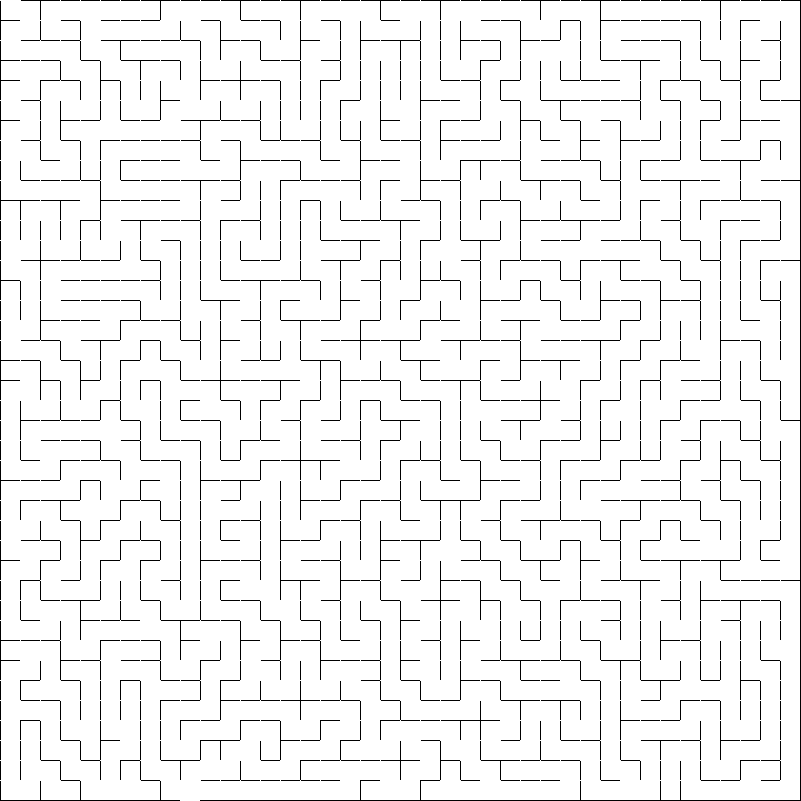
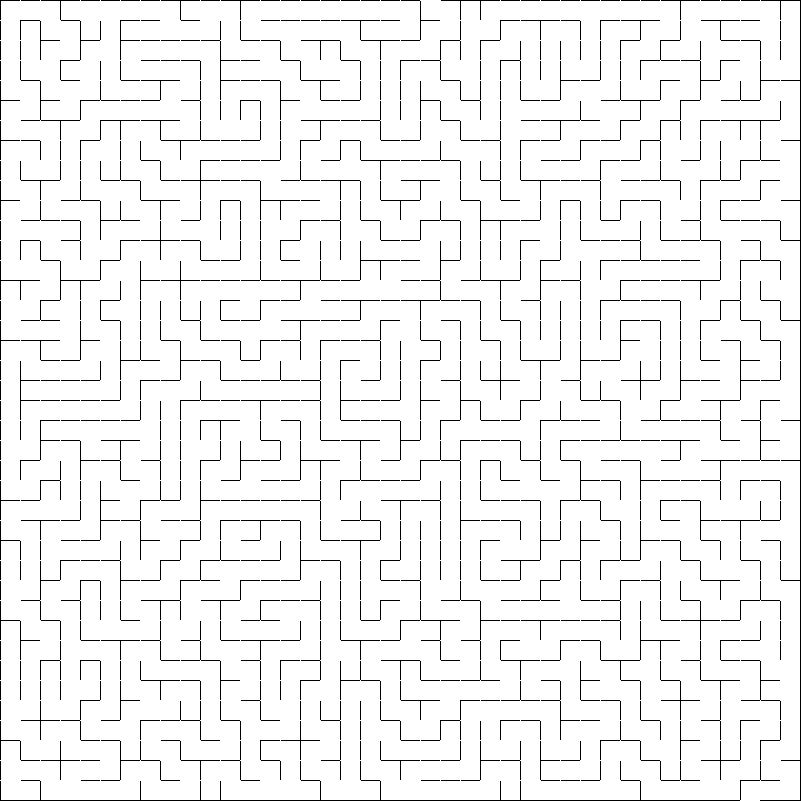
Make solution maze start & end
Make solution maze start & end

diff --git a/python/maze/maze_generator.py b/python/maze/maze_generator.py
@@ -31,6 +31,8 @@ class maze(object):
 
         self.maze[0, (y_start-1)*self.line_step : y_start*self.line_step] = 255
         self.maze[self.width, (y_end-1)*self.line_step : y_end*self.line_step] = 255
+        self.solution[0, (y_start-1)*self.line_step : y_start*self.line_step] = 255
+        self.solution[self.width, (y_end-1)*self.line_step : y_end*self.line_step] = 255
 
 
         print('x1: %d, y1: %d, x2: %d, y2: %d' %(x_start, y_start, x_end, y_end))
